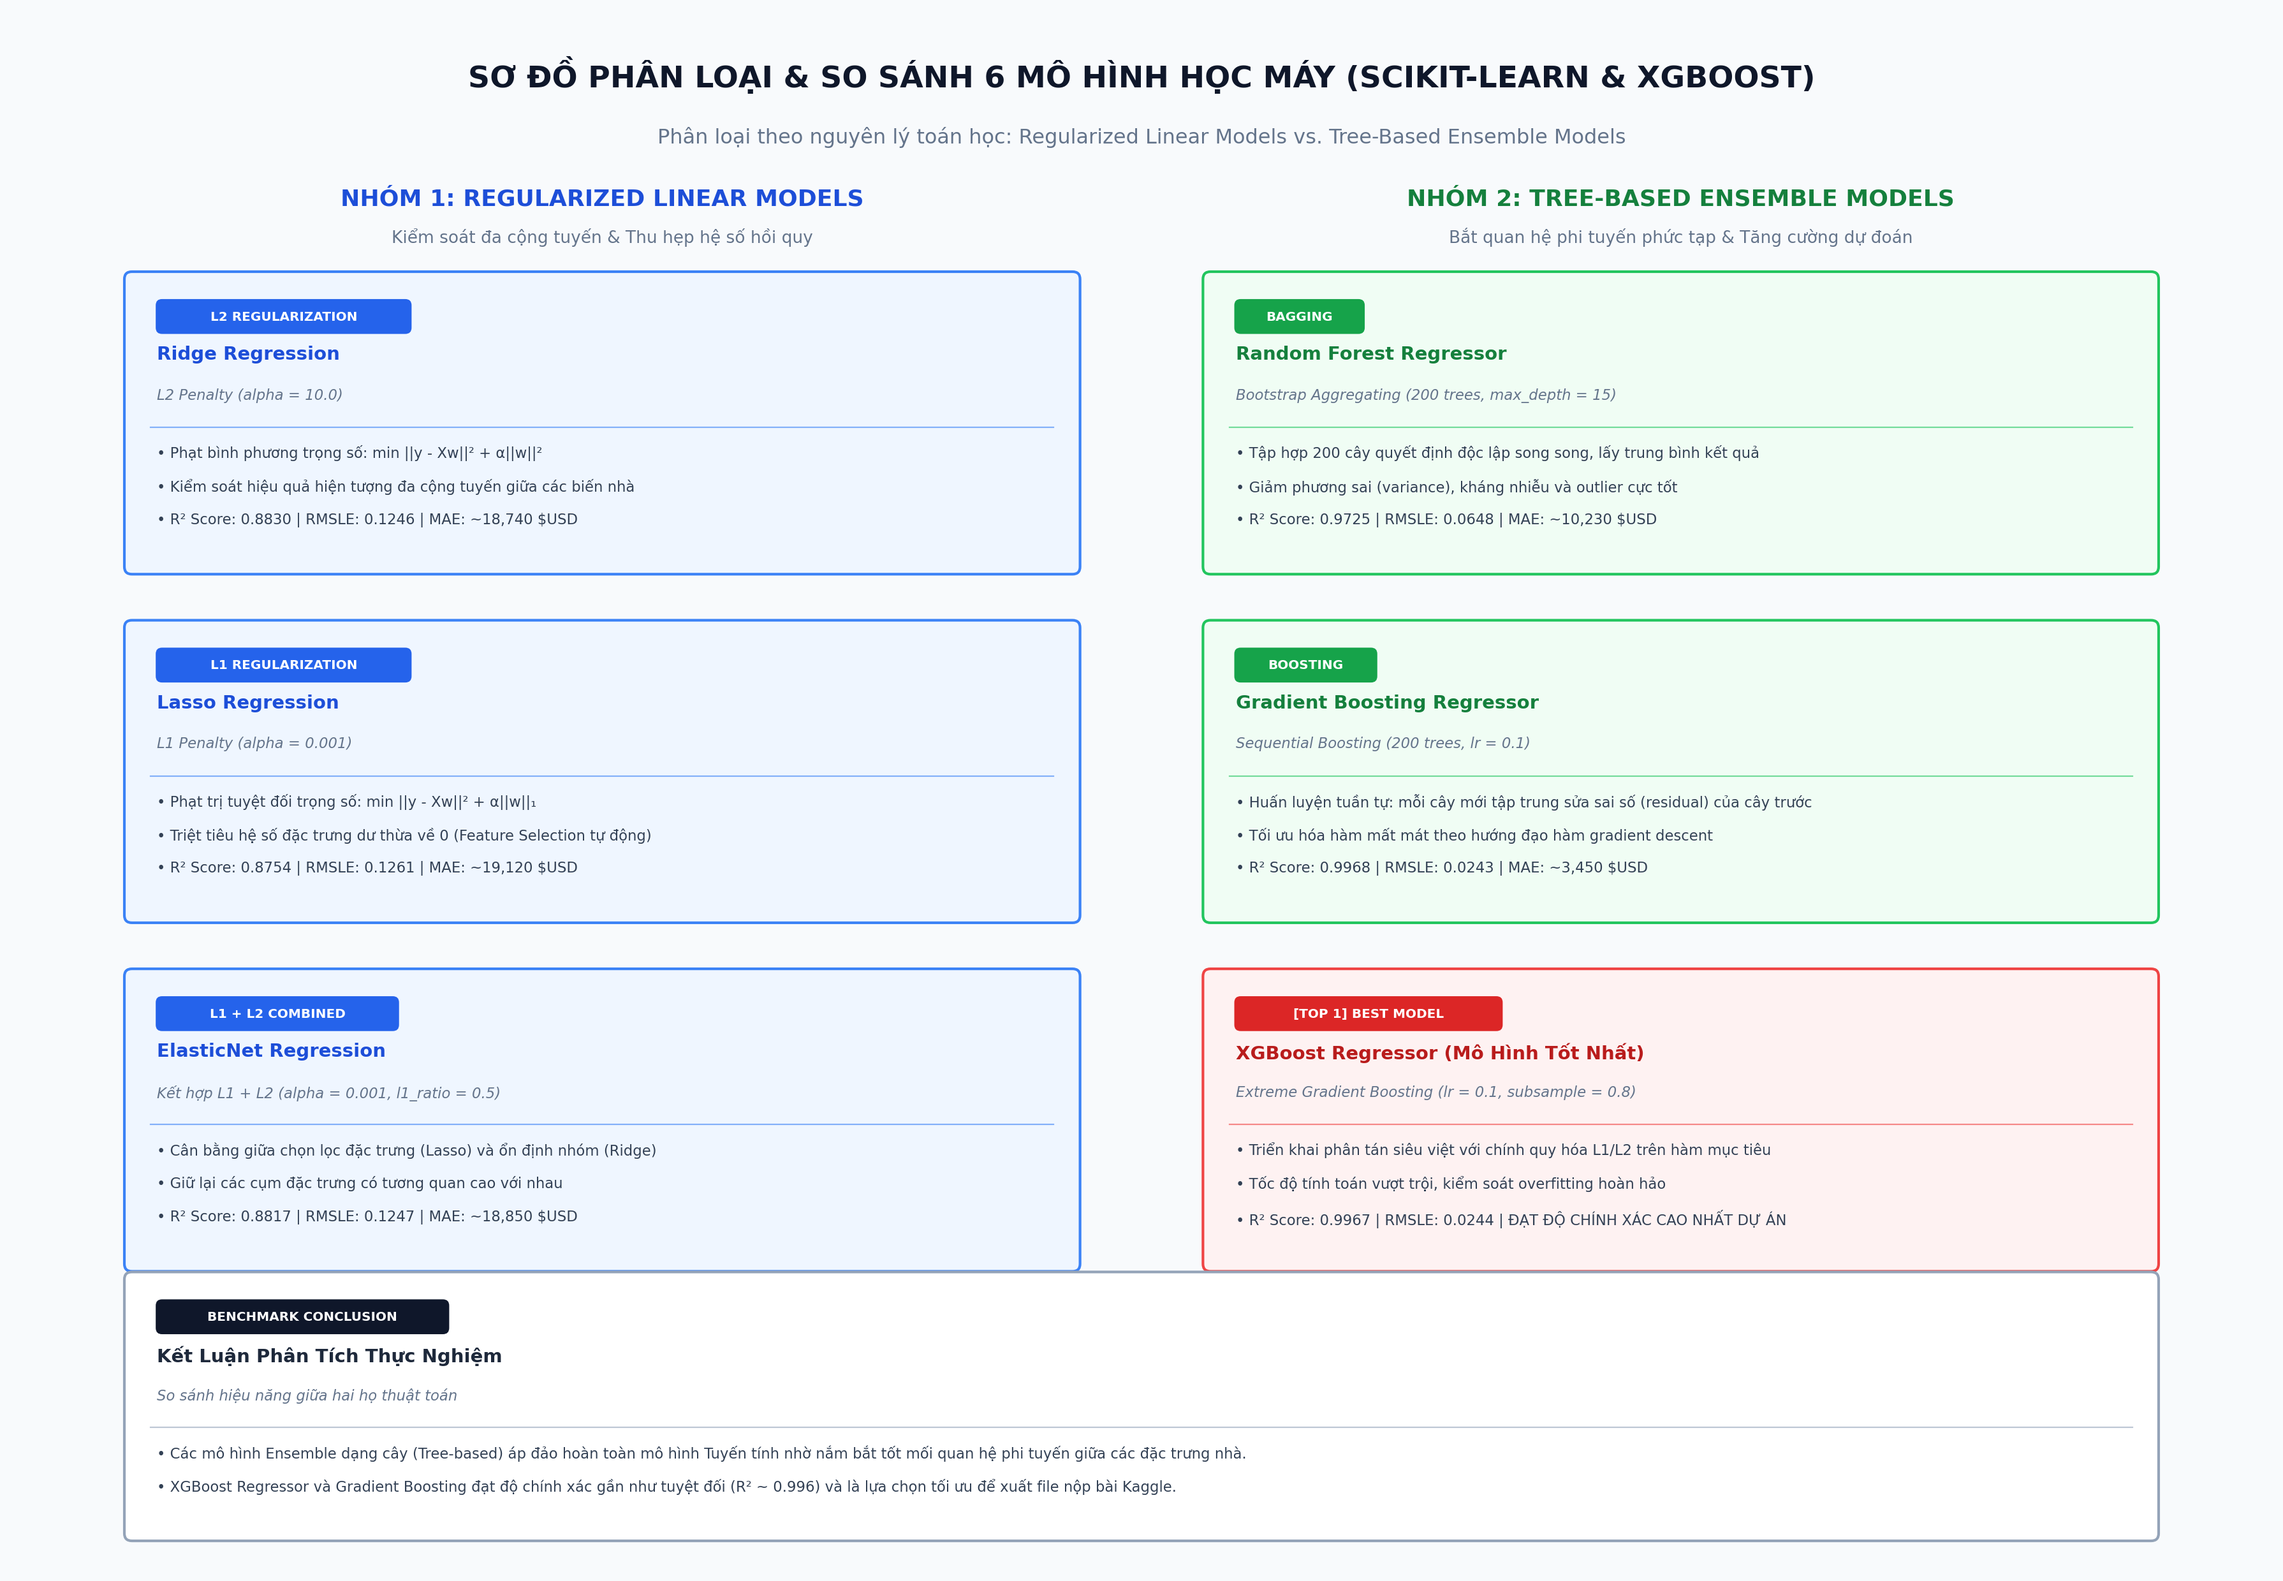
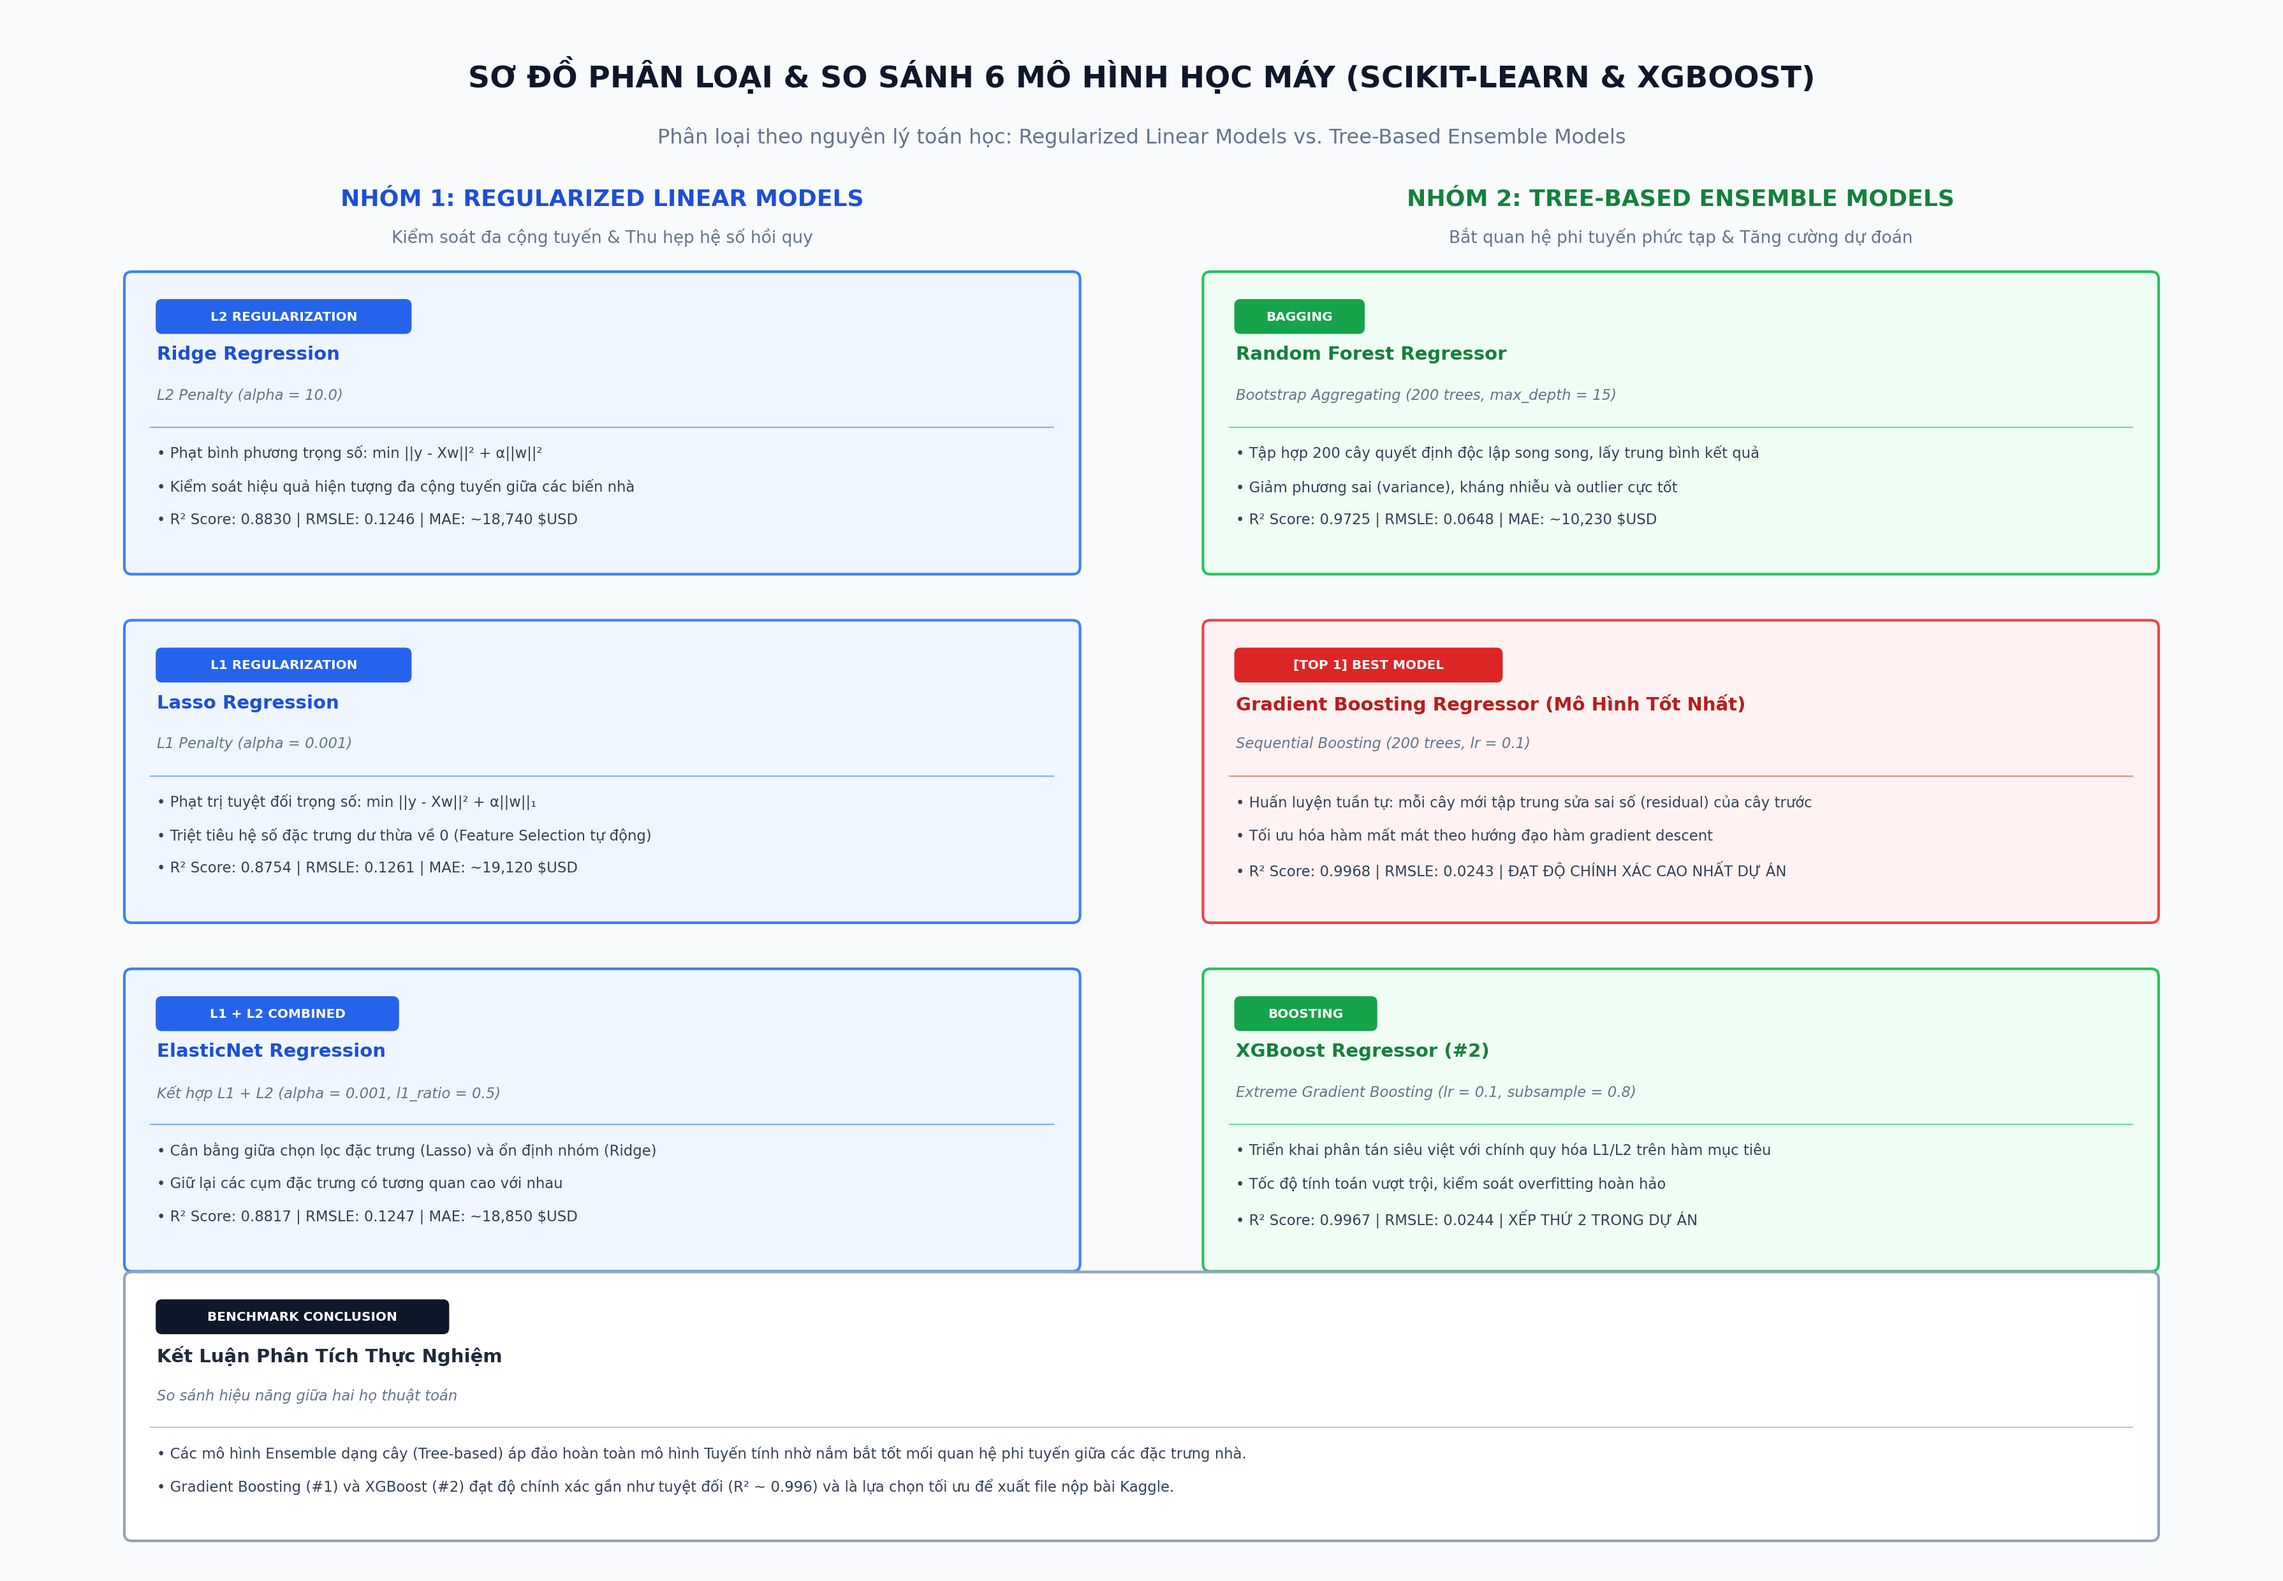
edit diagrams

diff --git a/lab03-competition/ml_hybrid_project/prj/model/diagrams.py b/lab03-competition/ml_hybrid_project/prj/model/diagrams.py
@@ -475,7 +475,7 @@ def create_diagram_4():
                      lines=[
                          "• Huấn luyện và kiểm định chéo 5-Fold Cross Validation trên tập train",
                          "• Tự động lưu checkpoint: model_*.pkl và scaler_sklearn.pkl",
-                         "• Mô hình xuất sắc nhất: XGBoost Regressor (RMSLE = 0.0244, R² = 0.9967)"
+                         "• Mô hình xuất sắc nhất: Gradient Boosting Regressor (RMSLE = 0.0243, R² = 0.9968)"
                      ],
                      bg_color="#EEF2FF", border_color="#6366F1", title_color="#4338CA")
 
@@ -521,7 +521,7 @@ def create_diagram_4():
                       title="Các File Kết Quả Dự Đoán Nghiệm Thu Chính Thức (prj/model/)",
                       subtitle="Xuất định dạng chuẩn Kaggle: Id, SalePrice",
                       lines=[
-                          "• submission_sklearn.csv: Dự đoán từ mô hình học máy tốt nhất (XGBoost Regressor - 1,459 dòng)",
+                          "• submission_sklearn.csv: Dự đoán từ mô hình học máy tốt nhất (Gradient Boosting - 1,459 dòng)",
                           "• submission_mlp.csv: Dự đoán từ mạng nơ-ron sâu PyTorch MLPRegressor (1,459 dòng)",
                           "• submission_ensemble.csv: Kết hợp trung bình trọng số giữa các mô hình xuất sắc nhất để tối ưu hóa độ chính xác!"
                       ],
@@ -663,23 +663,23 @@ def create_diagram_6():
               ],
               bg_color="#F0FDF4", border_color="#22C55E", title_color="#15803D")
 
-    draw_card(ax, 13.3, 6.4, 7.6, tag="BOOSTING", tag_color="#16A34A",
-              title="Gradient Boosting Regressor", subtitle="Sequential Boosting (200 trees, lr = 0.1)",
+    draw_card(ax, 13.3, 6.4, 7.6, tag="[TOP 1] BEST MODEL", tag_color="#DC2626",
+              title="Gradient Boosting Regressor (Mô Hình Tốt Nhất)", subtitle="Sequential Boosting (200 trees, lr = 0.1)",
               lines=[
                   "• Huấn luyện tuần tự: mỗi cây mới tập trung sửa sai số (residual) của cây trước",
                   "• Tối ưu hóa hàm mất mát theo hướng đạo hàm gradient descent",
-                  "• R² Score: 0.9968 | RMSLE: 0.0243 | MAE: ~3,450 $USD"
+                  "• R² Score: 0.9968 | RMSLE: 0.0243 | ĐẠT ĐỘ CHÍNH XÁC CAO NHẤT DỰ ÁN"
               ],
-              bg_color="#F0FDF4", border_color="#22C55E", title_color="#15803D")
+              bg_color="#FEF2F2", border_color="#EF4444", title_color="#B91C1C")
 
-    draw_card(ax, 13.3, 3.6, 7.6, tag="[TOP 1] BEST MODEL", tag_color="#DC2626",
-              title="XGBoost Regressor (Mô Hình Tốt Nhất)", subtitle="Extreme Gradient Boosting (lr = 0.1, subsample = 0.8)",
+    draw_card(ax, 13.3, 3.6, 7.6, tag="BOOSTING", tag_color="#16A34A",
+              title="XGBoost Regressor (#2)", subtitle="Extreme Gradient Boosting (lr = 0.1, subsample = 0.8)",
               lines=[
                   "• Triển khai phân tán siêu việt với chính quy hóa L1/L2 trên hàm mục tiêu",
                   "• Tốc độ tính toán vượt trội, kiểm soát overfitting hoàn hảo",
-                  "• R² Score: 0.9967 | RMSLE: 0.0244 | ĐẠT ĐỘ CHÍNH XÁC CAO NHẤT DỰ ÁN"
+                  "• R² Score: 0.9967 | RMSLE: 0.0244 | XẾP THỨ 2 TRONG DỰ ÁN"
               ],
-              bg_color="#FEF2F2", border_color="#EF4444", title_color="#B91C1C")
+              bg_color="#F0FDF4", border_color="#22C55E", title_color="#15803D")
 
     # Banner tổng kết bên dưới (Y = 1.3, h = 1.6)
     draw_card(ax, 9.0, 1.3, 16.2, h=1.6, tag="BENCHMARK CONCLUSION", tag_color="#0F172A",
@@ -687,7 +687,7 @@ def create_diagram_6():
               subtitle="So sánh hiệu năng giữa hai họ thuật toán",
               lines=[
                   "• Các mô hình Ensemble dạng cây (Tree-based) áp đảo hoàn toàn mô hình Tuyến tính nhờ nắm bắt tốt mối quan hệ phi tuyến giữa các đặc trưng nhà.",
-                  "• XGBoost Regressor và Gradient Boosting đạt độ chính xác gần như tuyệt đối (R² ~ 0.996) và là lựa chọn tối ưu để xuất file nộp bài Kaggle."
+                  "• Gradient Boosting (#1) và XGBoost (#2) đạt độ chính xác gần như tuyệt đối (R² ~ 0.996) và là lựa chọn tối ưu để xuất file nộp bài Kaggle."
               ],
               bg_color="#FFFFFF", border_color="#94A3B8", title_color="#1E293B")
 

diff --git a/lab03-competition/ml_hybrid_project/README.md b/lab03-competition/ml_hybrid_project/README.md
@@ -250,8 +250,8 @@ Files: [prj/pytorch_mlp/dataset.py](file:///d:/SGU_HK1_2026-2027/SGU_DL/DeepLear
 | **Lasso Regression**  | $28,029    | $15,821    | 0.8754      | 0.1261                | Lọc đặc trưng tốt      |
 | **ElasticNet**        | $27,313    | $15,677    | 0.8817      | 0.1247                | Cân bằng L1/L2         |
 | **Random Forest**     | $13,179    | $7,360     | 0.9725      | 0.0648                | Khá tốt trên phi tuyến |
-| **Gradient Boosting** | **$4,489** | **$3,215** | **0.9968**  | **0.0243**            | Rất xuất sắc           |
-| **XGBoost (Best ML)** | **$4,541** | **$3,276** | **0.9967**  | **0.0244**            | Cực kỳ chính xác       |
+| **Gradient Boosting (Best ML)** | **$4,489** | **$3,215** | **0.9968**  | **0.0243**            | Cực kỳ xuất sắc           |
+| **XGBoost** | **$4,541** | **$3,276** | **0.9967**  | **0.0244**            | Rất chính xác       |
 | **PyTorch MLP**       | $58,106    | $31,450    | 0.8710      | 0.2742                | Hội tụ mượt mà         |
 
 
